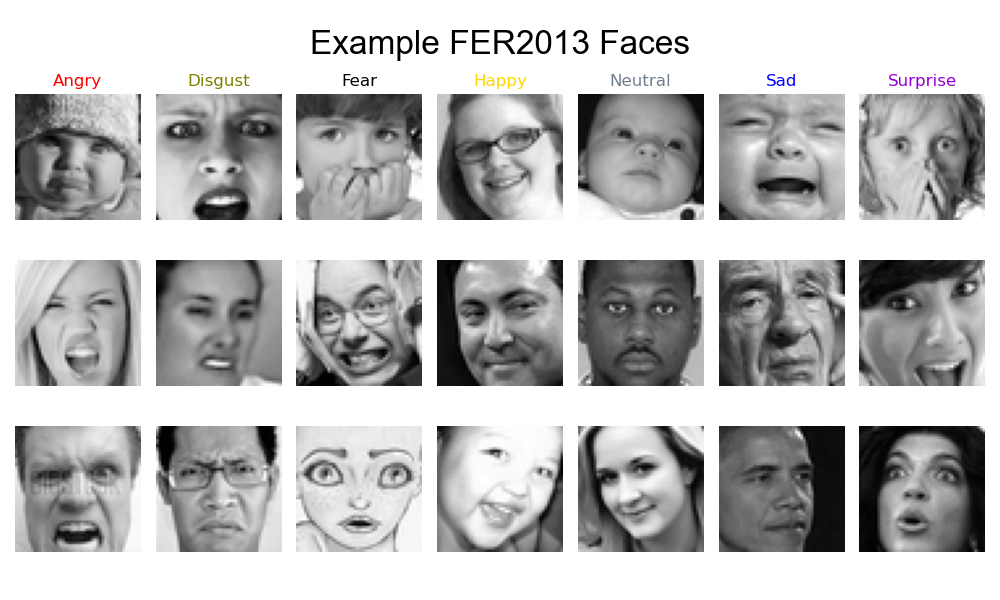
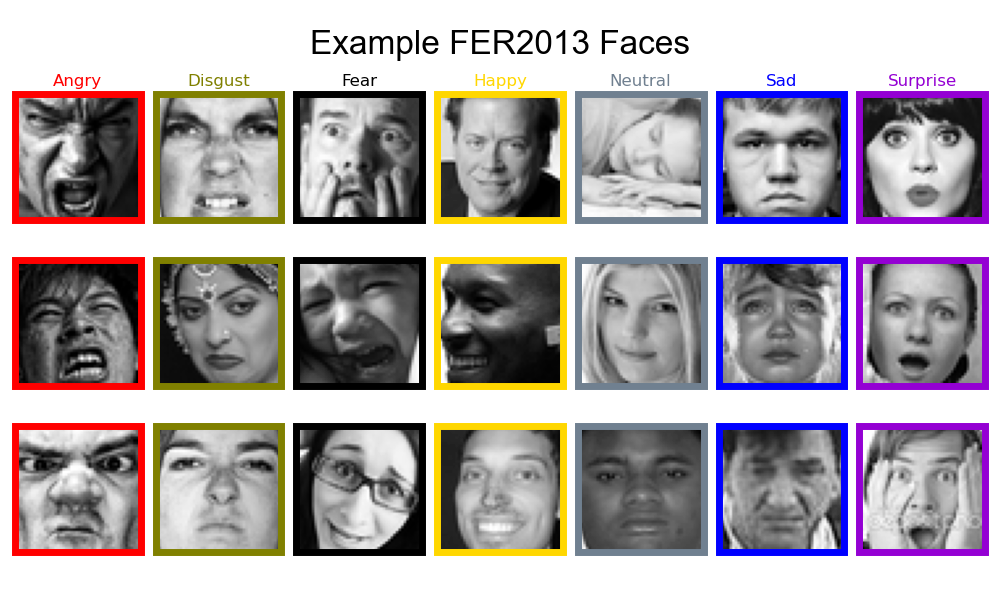
Customized images and code clean

diff --git a/src/figure_helpers.py b/src/figure_helpers.py
@@ -20,9 +20,16 @@ def show_example_images(df, group_col='emotion', image_col='image',
     n_rows = samples
     fig_width = 10
     fig_height = samples * 2
-    
+
+    # Dictionary to store emotion titles and corresponding subplots
+    sorted_df = df.sort_values(by='emotion')
+    emo_labels = sorted_df['emotion'].unique().tolist()
+    emotion_axes = {emotion: [] for emotion in emo_labels}
+    emotion_color_dict = sorted_df[['emotion', 'color']].drop_duplicates().set_index('emotion')['color'].to_dict()
+
     fig, axes = plt.subplots(nrows=n_rows, ncols=n_cols, squeeze=False, figsize=(fig_width, fig_height))
 
+    # For each number of samples requested, pull 1 example of each emotion
     for i in range(n_rows):
         samples_df = df.groupby(group_col).sample(n=1).reset_index()
         samples_df.sort_values(by=group_col, inplace=True)
@@ -30,20 +37,36 @@ def show_example_images(df, group_col='emotion', image_col='image',
             ax = axes[i, idx]
             ax.imshow(np.array(row[image_col]), cmap='gray')
             ax.axis('off')
+            emotion_axes[row['emotion']].append(ax)
 
-    # Add titles to each column
-    emo_labels = samples_df[group_col].to_list()
-    emo_colors = samples_df[col_col].to_list()
-    for col_idx, (label, color) in enumerate(zip(emo_labels, emo_colors)):
-        axes[0, col_idx].set_title(f"{label}", color=color)
+    # Add column labels (emotion) in defined color
+    for col_idx, label in enumerate(emo_labels):
+        axes[0, col_idx].set_title(f"{label}", color=emotion_color_dict[label])
 
-
+    # Format fonts for output to be consistent and match plotly
     fig, axes = apply_default_matplotlib_styling(
             fig=fig, axs=axes, 
             title=title
         )
 
+    # Improves layout structure for saving images
+    # MUST be called before adding color frames (changes layout)
     plt.tight_layout()    
+
+    # Add colored frames to each example by emo label
+    for emotion, e_axs in emotion_axes.items():
+        for ax in e_axs:
+            # Get the position of the current subplot
+            pos = ax.get_position()
+            # Create a rectangle with the same position and add it to the figure
+            rect = patches.Rectangle((pos.x0, pos.y0), pos.width, pos.height,
+                                     linewidth=5, 
+                                     edgecolor=emotion_color_dict[emotion], 
+                                     facecolor='none', 
+                                     transform=fig.transFigure
+                                )
+            fig.patches.append(rect)
+
     if save_path:
         plt.savefig(save_path)
     # plt.show()
@@ -91,24 +114,6 @@ def apply_default_plotly_styling(fig, title, xaxis_title=None,
     
     return fig
 
-# def apply_default_matplotlib_styling(fig, ax, title, xaxis_title=None, 
-#                           yaxis_title=None, legend_title=None):
-
-#     fig.suptitle(title, fontsize=24, fontname="Arial", color="black", 
-#                  y=0.95, x=0.5, ha='center', va='top')
-
-#     # Set axis labels with specified font properties
-#     ax.set_xlabel("X Axis", fontsize=14, fontname="Arial", color="black")
-#     ax.set_ylabel("Y Axis", fontsize=14, fontname="Arial", color="black")
-    
-#     # Customize font properties for tick labels
-#     for label in (ax.get_xticklabels() + ax.get_yticklabels()):
-#         label.set_fontname("Arial")
-#         label.set_fontsize(14)
-#         label.set_color("black")
-
-#     return fig, ax
-
 def apply_default_matplotlib_styling(fig, axs, title, xaxis_title=None, 
                           yaxis_title=None, legend_title=None):
     # Set the figure title
@@ -135,6 +140,7 @@ def apply_default_matplotlib_styling(fig, axs, title, xaxis_title=None,
             label.set_fontname("Arial")
             label.set_fontsize(14)
             label.set_color("black")
+    
     return fig, axs
 
 def add_bar_totals(fig, df, col, y_offset=1000):
